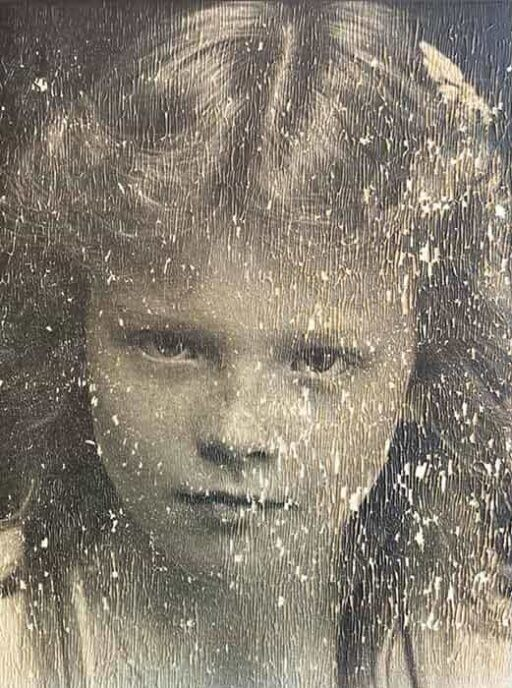
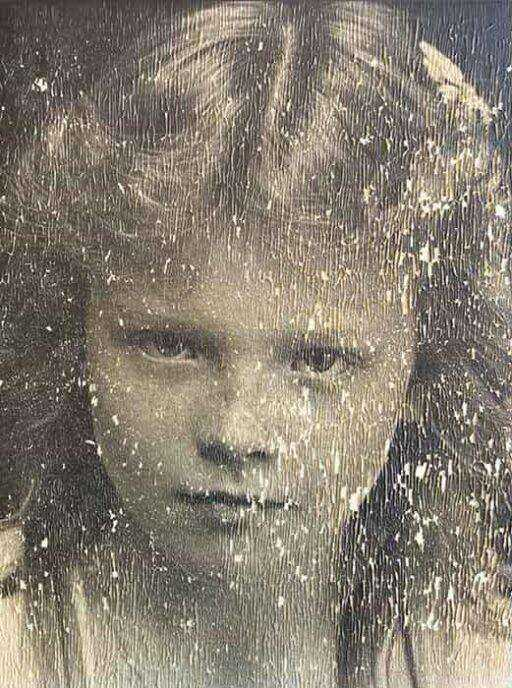
perf: Optimize images and add lazy loading
- Compress before-1.jpg from 140KB to 79KB (44% reduction)
- Add lazy loading to 3 images in restore page
- Expected improvements: LCP -500ms~1s, better mobile performance

diff --git a/src/app/old-photo-restoration/restore-client.tsx b/src/app/old-photo-restoration/restore-client.tsx
@@ -293,6 +293,7 @@ export default function RestoreClient() {
               src={preview}
               alt="Uploaded photo being processed"
               className="h-48 w-auto rounded-xl object-contain shadow-sm"
+              loading="lazy"
             />
           )}
           <div className="w-full max-w-sm">
@@ -661,6 +662,7 @@ function BeforeAfterSlider({
         src={afterSrc}
         alt="Restored photo after AI enhancement"
         className="absolute inset-0 h-full w-full object-contain"
+        loading="lazy"
       />
       {/* Before (clipped) */}
       <div
@@ -671,6 +673,7 @@ function BeforeAfterSlider({
           src={beforeSrc}
           alt="Original old photo before restoration"
           className="h-full w-full object-contain"
+          loading="lazy"
           style={{
             width: containerRef.current
               ? `${containerRef.current.offsetWidth}px`
